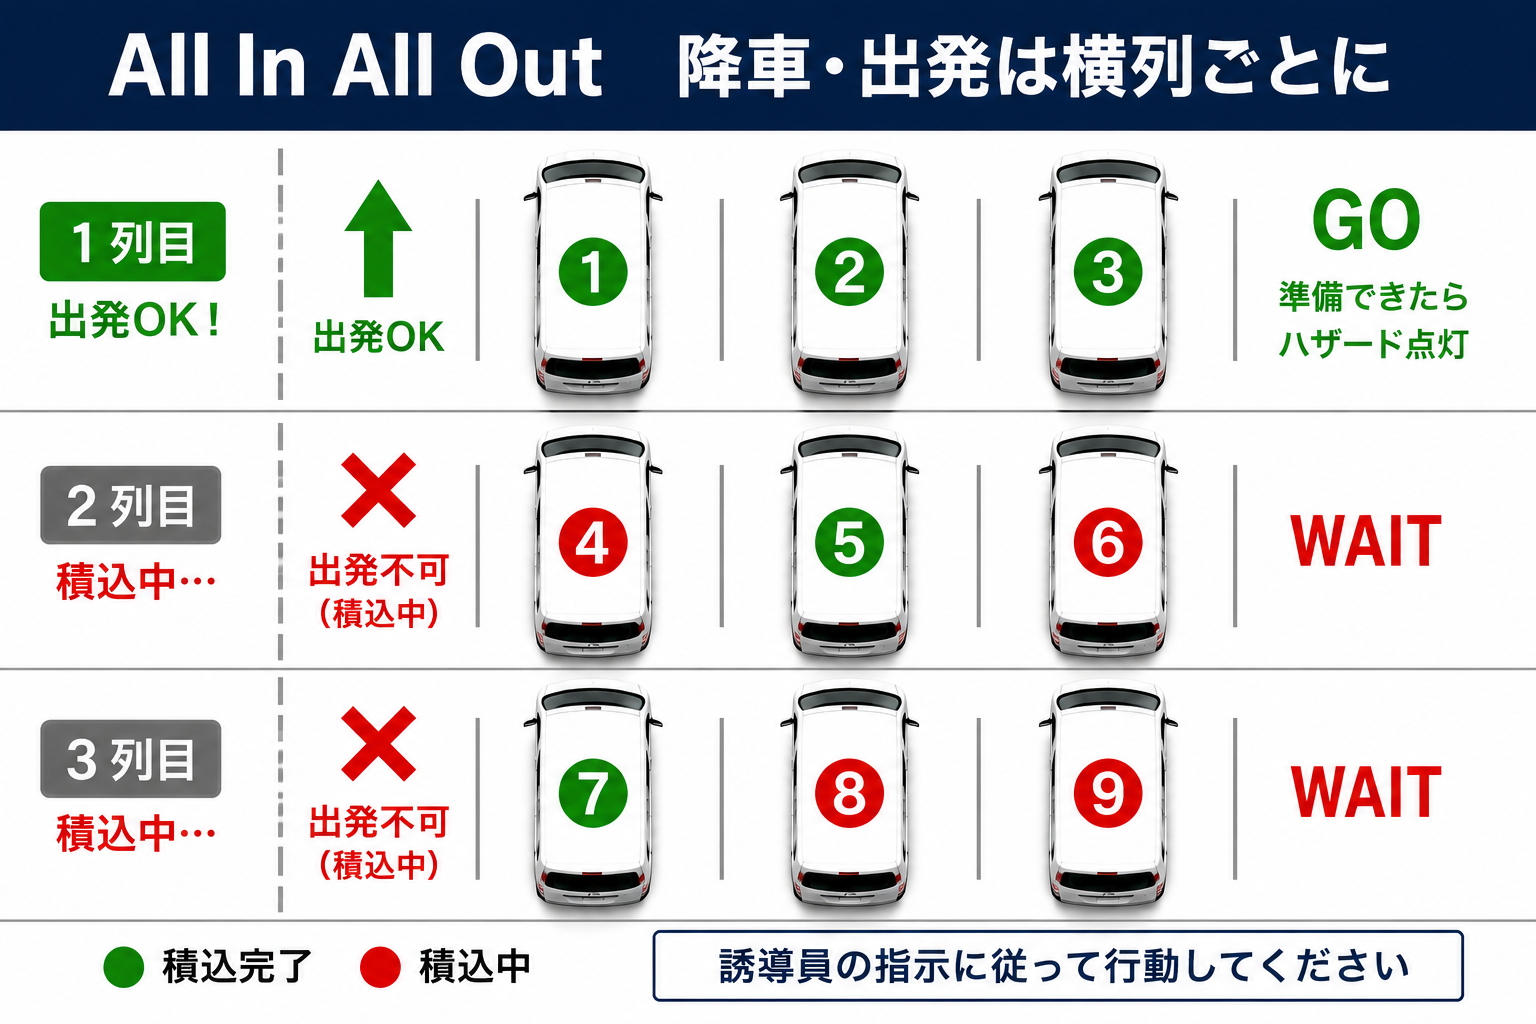
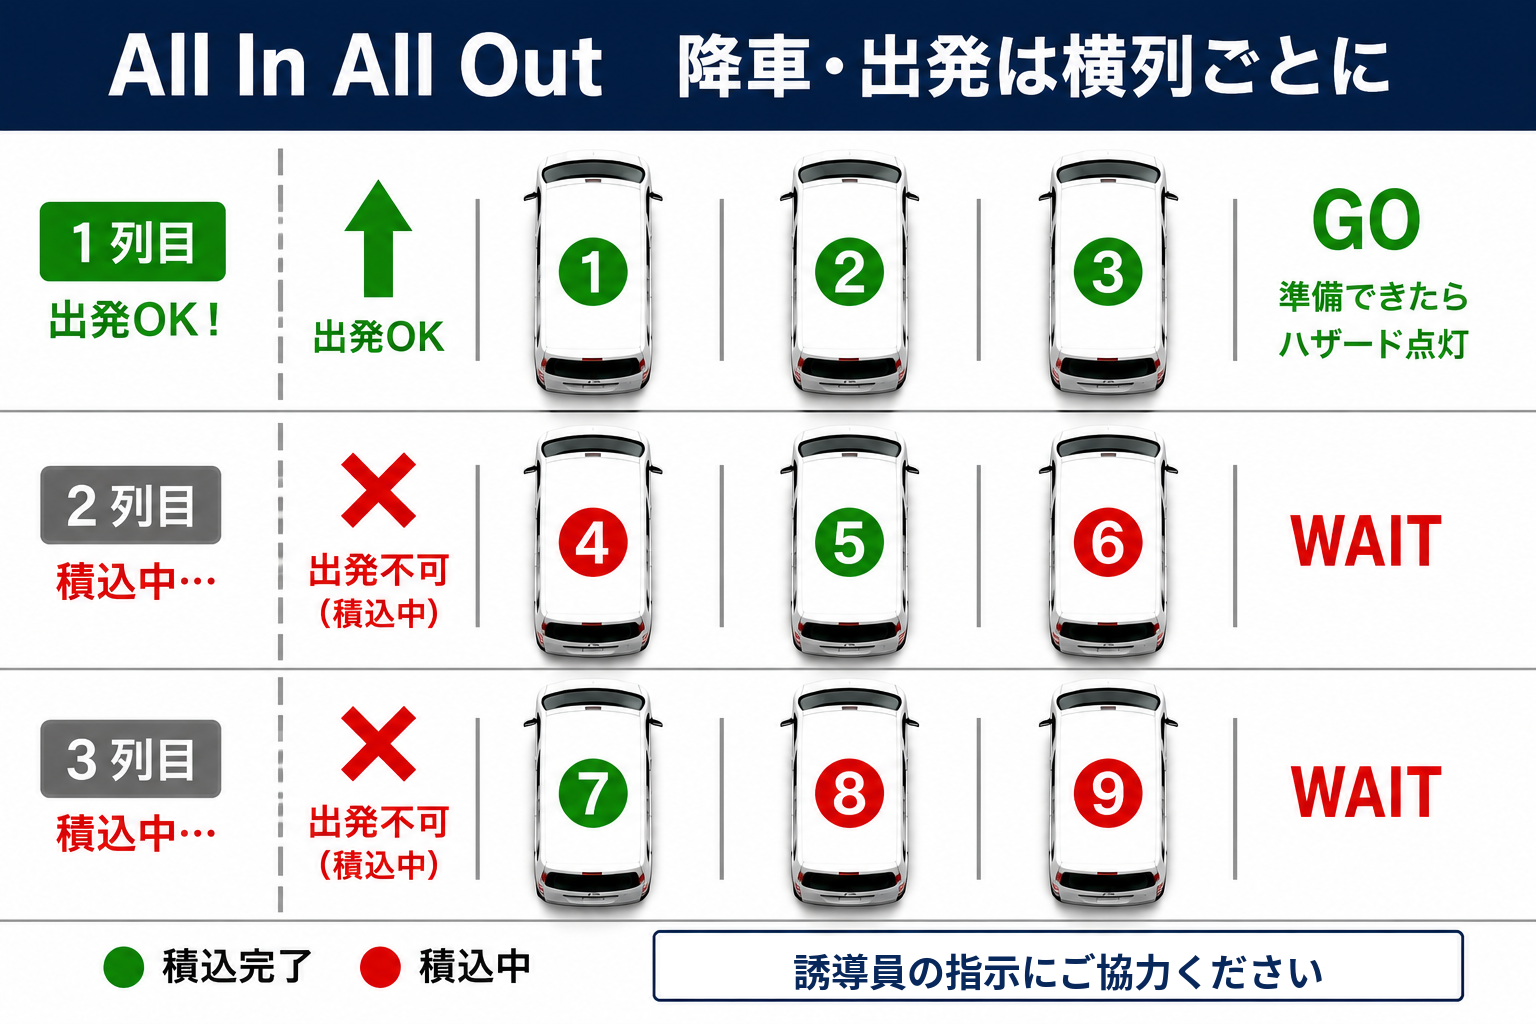
Add files via upload

Changed region(s): [[0.4688, 0.9062, 0.9062, 0.9688]]

diff --git a/scheduler.js b/scheduler.js
@@ -68,6 +68,8 @@ const Scheduler = {
     const departStart = w + CONFIG.departStartMinutesAfterWave;
     const departEnd = departStart + CONFIG.departDurationMinutes;
     const safeEnd = departEnd + CONFIG.safeDriveDurationSeconds / 60;
+    const nextWave = this.findNextWave(wave);
+    const nextCheckinStart = this.toMinutes(nextWave) - CONFIG.checkinStartMinutesBeforeWave;
 
     let mode = "normal";
     if (now >= checkinStart && now < checkinEnd) mode = "checkin";
@@ -82,10 +84,11 @@ const Scheduler = {
 
     return {
       wave,
-      nextWave: this.findNextWave(wave),
+      nextWave,
       mode,
       otdTime: this.formatTime(otdTime),
-      remaining: `${String(rm).padStart(2, "0")}:${String(rs).padStart(2, "0")}`
+      remaining: `${String(rm).padStart(2, "0")}:${String(rs).padStart(2, "0")}`,
+      nextCheckinTime: this.formatTime(nextCheckinStart)
     };
   }
 };

diff --git a/index.html b/index.html
@@ -45,8 +45,8 @@
     </main>
 
     <aside id="infoPanel">
-      <div class="infoBlock"><div class="label">OTD</div><div id="otdTime">--:--</div></div>
-      <div class="infoBlock remainBlock"><div class="label">NEXT WAVE CHECK IN</div><div id="remaining">00:00</div></div>
+      <div class="infoBlock"><div class="label">出庫目安時刻</div><div id="otdTime">--:--</div></div>
+      <div class="infoBlock remainBlock"><div class="label">次のチェックイン開始時刻</div><div id="nextCheckinTime">--:--</div></div>
     </aside>
   </div>
 

diff --git a/style.css b/style.css
@@ -105,3 +105,9 @@ body.mode-normal #app{background:linear-gradient(180deg,#03101d,#08243a)}body.mo
   #otdTime{font-size:39px}
   #remaining{font-size:43px}
 }
+
+/* ===== 日本語案内 v6 ===== */
+#infoPanel .label{font-size:16px;line-height:1.35;letter-spacing:.2px}
+#nextCheckinTime{margin-top:8px;font-size:48px;font-weight:900;color:#ffe100;letter-spacing:1px}
+@media (max-width:1280px){#infoPanel .label{font-size:14px}#nextCheckinTime{font-size:42px}}
+@media (max-height:650px){#nextCheckinTime{font-size:39px}}

diff --git a/config.js b/config.js
@@ -29,7 +29,7 @@ const CONFIG = {
 
   slides: [
     { src: "images/imageA.png", title: "All In All Out" },
-    { src: "images/imageB.png", title: "正しく集荷して、エラーゼロへ" },
+    { src: "images/imageB.png", title: "DTK6での集荷ルール" },
     { src: "images/imageC.png", title: "15分前から着車OK" }
   ],
 

diff --git a/display.js b/display.js
@@ -57,7 +57,7 @@ const Display = {
   updateInfo(state) {
     this.setText("offerValue", state.wave);
     this.setText("otdTime", state.otdTime);
-    this.setText("remaining", state.remaining);
+    this.setText("nextCheckinTime", state.nextCheckinTime);
   },
 
   showMessage(mode) {
